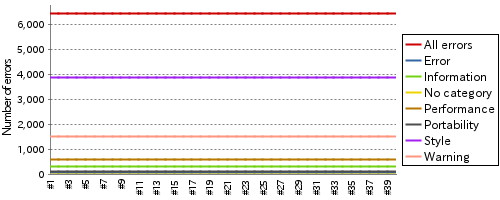
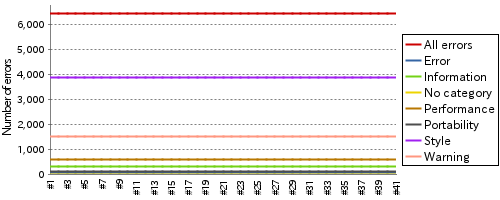
update report

diff --git a/index.md b/index.md
@@ -2,7 +2,7 @@
 layout: default
 ---
 # Jenkins CI report For HRG
-## Build and test report (2015/07/05 08:28:15)
+## Build and test report (2015/07/05 09:28:25)
 ### Build Status
 ___
 ![Build Status](http://jenkinshrg.github.io/images/badge.svg)
@@ -37,6 +37,7 @@ UNSTABLE
   
 |Status|Time|Duration|Changes|Build|Test|Note|
 |---|---|---|---|---|---|---|
+|![Jenkins Icon](http://jenkinshrg.github.io/images/24x24/yellow.png)UNSTABLE|2015/07/05 09:00|28 min.||[BUILD](https://drive.google.com/file/d/0B54sHwaxmuM4ODVVLW94ckJpRW8/view?usp=drivesdk) |[CONSOLE](https://drive.google.com/file/d/0B54sHwaxmuM4TU05S2lybG02Rlk/view?usp=drivesdk) [IMAGE](https://drive.google.com/file/d/0B54sHwaxmuM4RlMwcnVGOFZzd1k/edit?usp=drivesdk) [VIDEO](https://drive.google.com/file/d/0B54sHwaxmuM4VkFxZl94LVE5Y2M/edit?usp=drivesdk) |STOP RED|
 |![Jenkins Icon](http://jenkinshrg.github.io/images/24x24/yellow.png)UNSTABLE|2015/07/05 08:00|28 min.||[BUILD](https://drive.google.com/file/d/0B54sHwaxmuM4UUE5WjVybTVYb0E/view?usp=drivesdk) |[CONSOLE](https://drive.google.com/file/d/0B54sHwaxmuM4S2Z6dlB0UTBVYTg/view?usp=drivesdk) [IMAGE](https://drive.google.com/file/d/0B54sHwaxmuM4LUVsdDhNVE5mbVU/edit?usp=drivesdk) [VIDEO](https://drive.google.com/file/d/0B54sHwaxmuM4OW1TdU1EZkt1ek0/edit?usp=drivesdk) |STOP RED|
 |![Jenkins Icon](http://jenkinshrg.github.io/images/24x24/yellow.png)UNSTABLE|2015/07/05 07:00|28 min.||[BUILD](https://drive.google.com/file/d/0B54sHwaxmuM4Ry1FbTM5bGQtdzQ/view?usp=drivesdk) |[CONSOLE](https://drive.google.com/file/d/0B54sHwaxmuM4SDRLbTV0dGVaMUE/view?usp=drivesdk) [IMAGE](https://drive.google.com/file/d/0B54sHwaxmuM4Yk9YczRKZHQ3YjA/edit?usp=drivesdk) [VIDEO](https://drive.google.com/file/d/0B54sHwaxmuM4MnlCYjd2VTFENG8/edit?usp=drivesdk) |STOP RED|
 |![Jenkins Icon](http://jenkinshrg.github.io/images/24x24/yellow.png)UNSTABLE|2015/07/05 06:00|28 min.||[BUILD](https://drive.google.com/file/d/0B54sHwaxmuM4LUhZX2pYc3hybnM/view?usp=drivesdk) |[CONSOLE](https://drive.google.com/file/d/0B54sHwaxmuM4dXdrcmNxUElZejQ/view?usp=drivesdk) [IMAGE](https://drive.google.com/file/d/0B54sHwaxmuM4czlKM0RFRkl1czA/edit?usp=drivesdk) [VIDEO](https://drive.google.com/file/d/0B54sHwaxmuM4Y3NSaTl5cWgzWXc/edit?usp=drivesdk) |STOP NORMAL|
